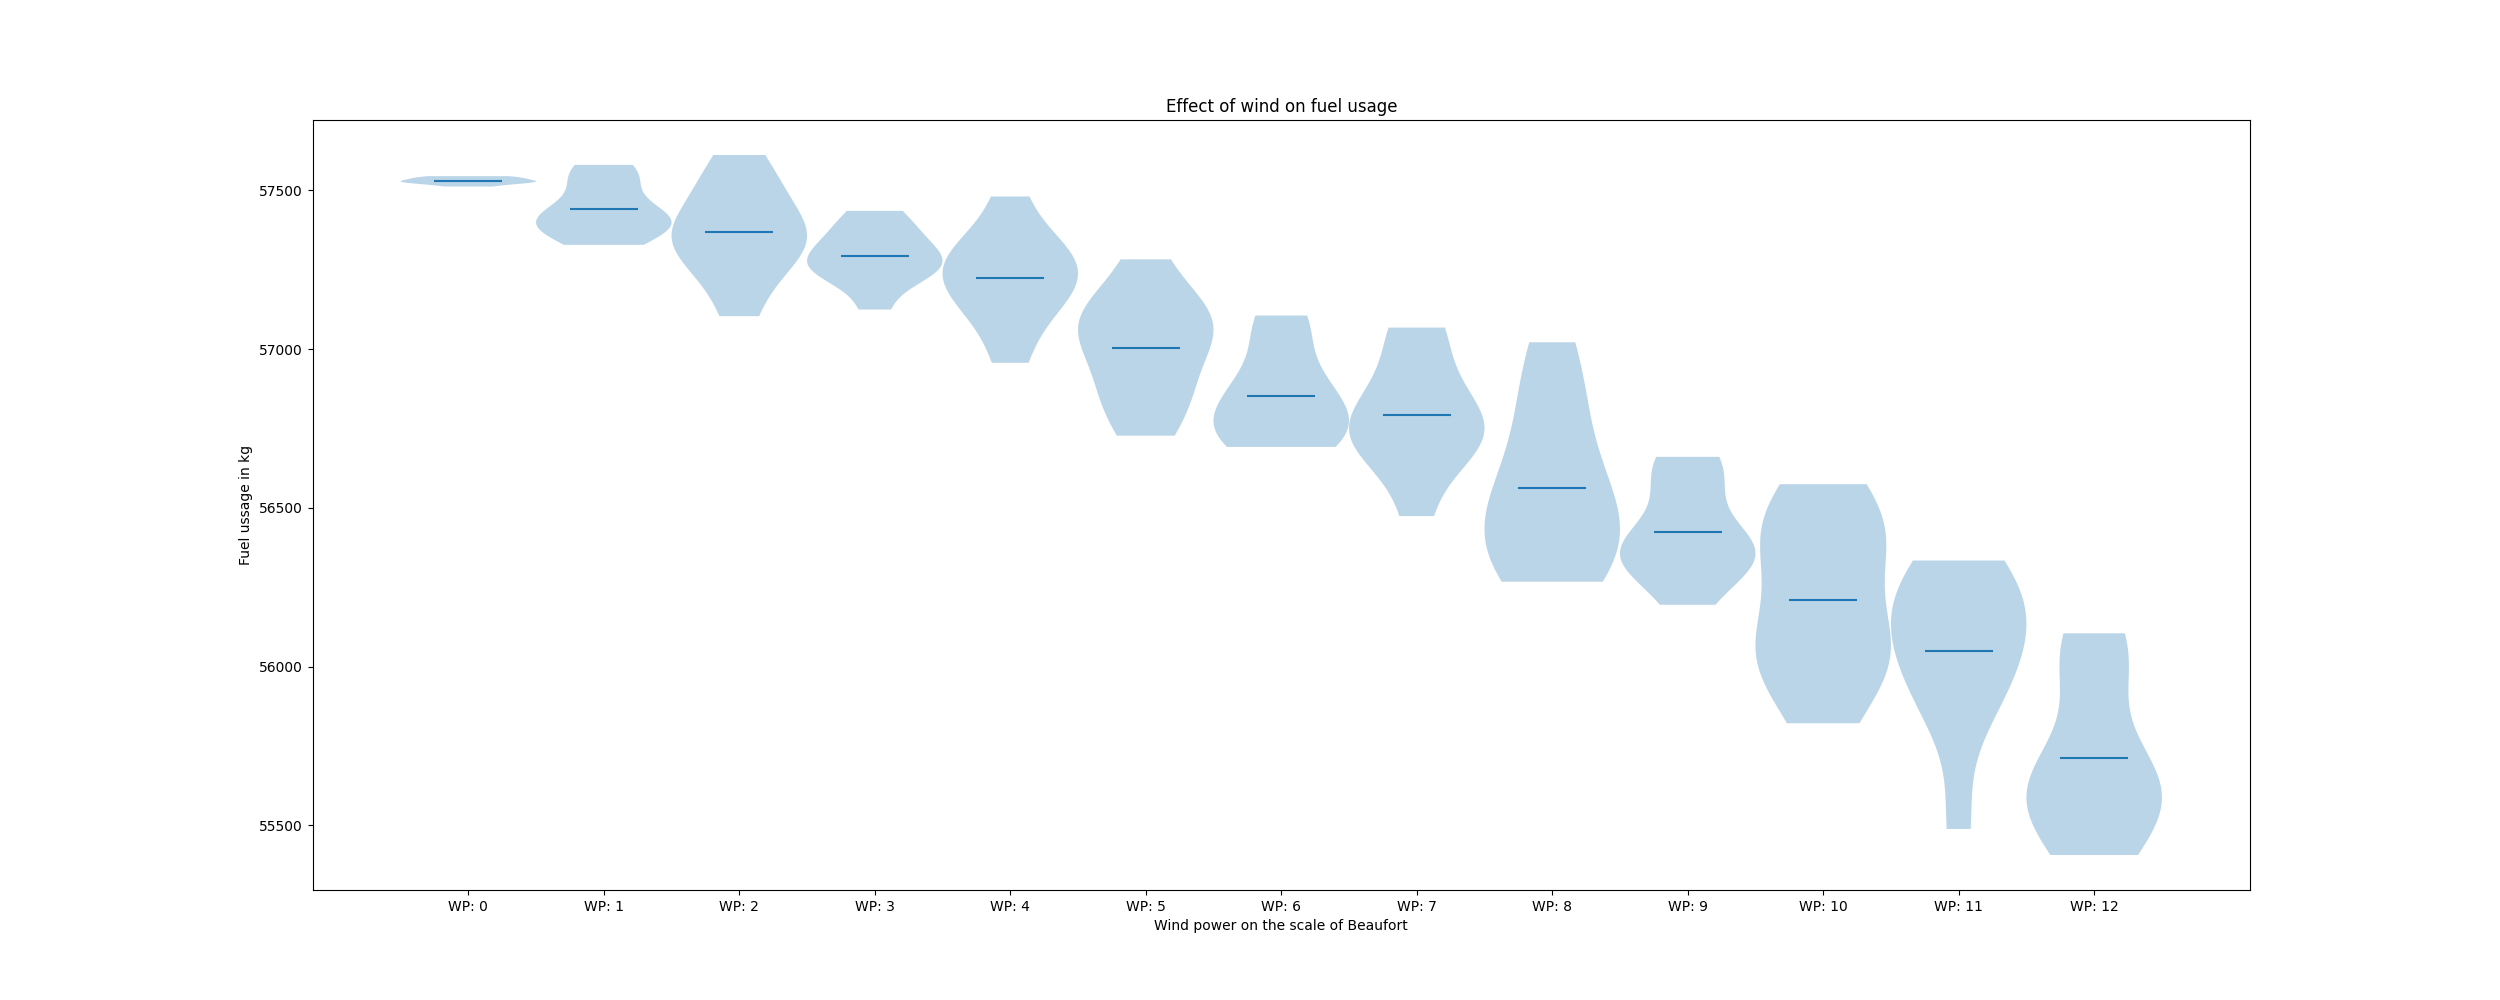
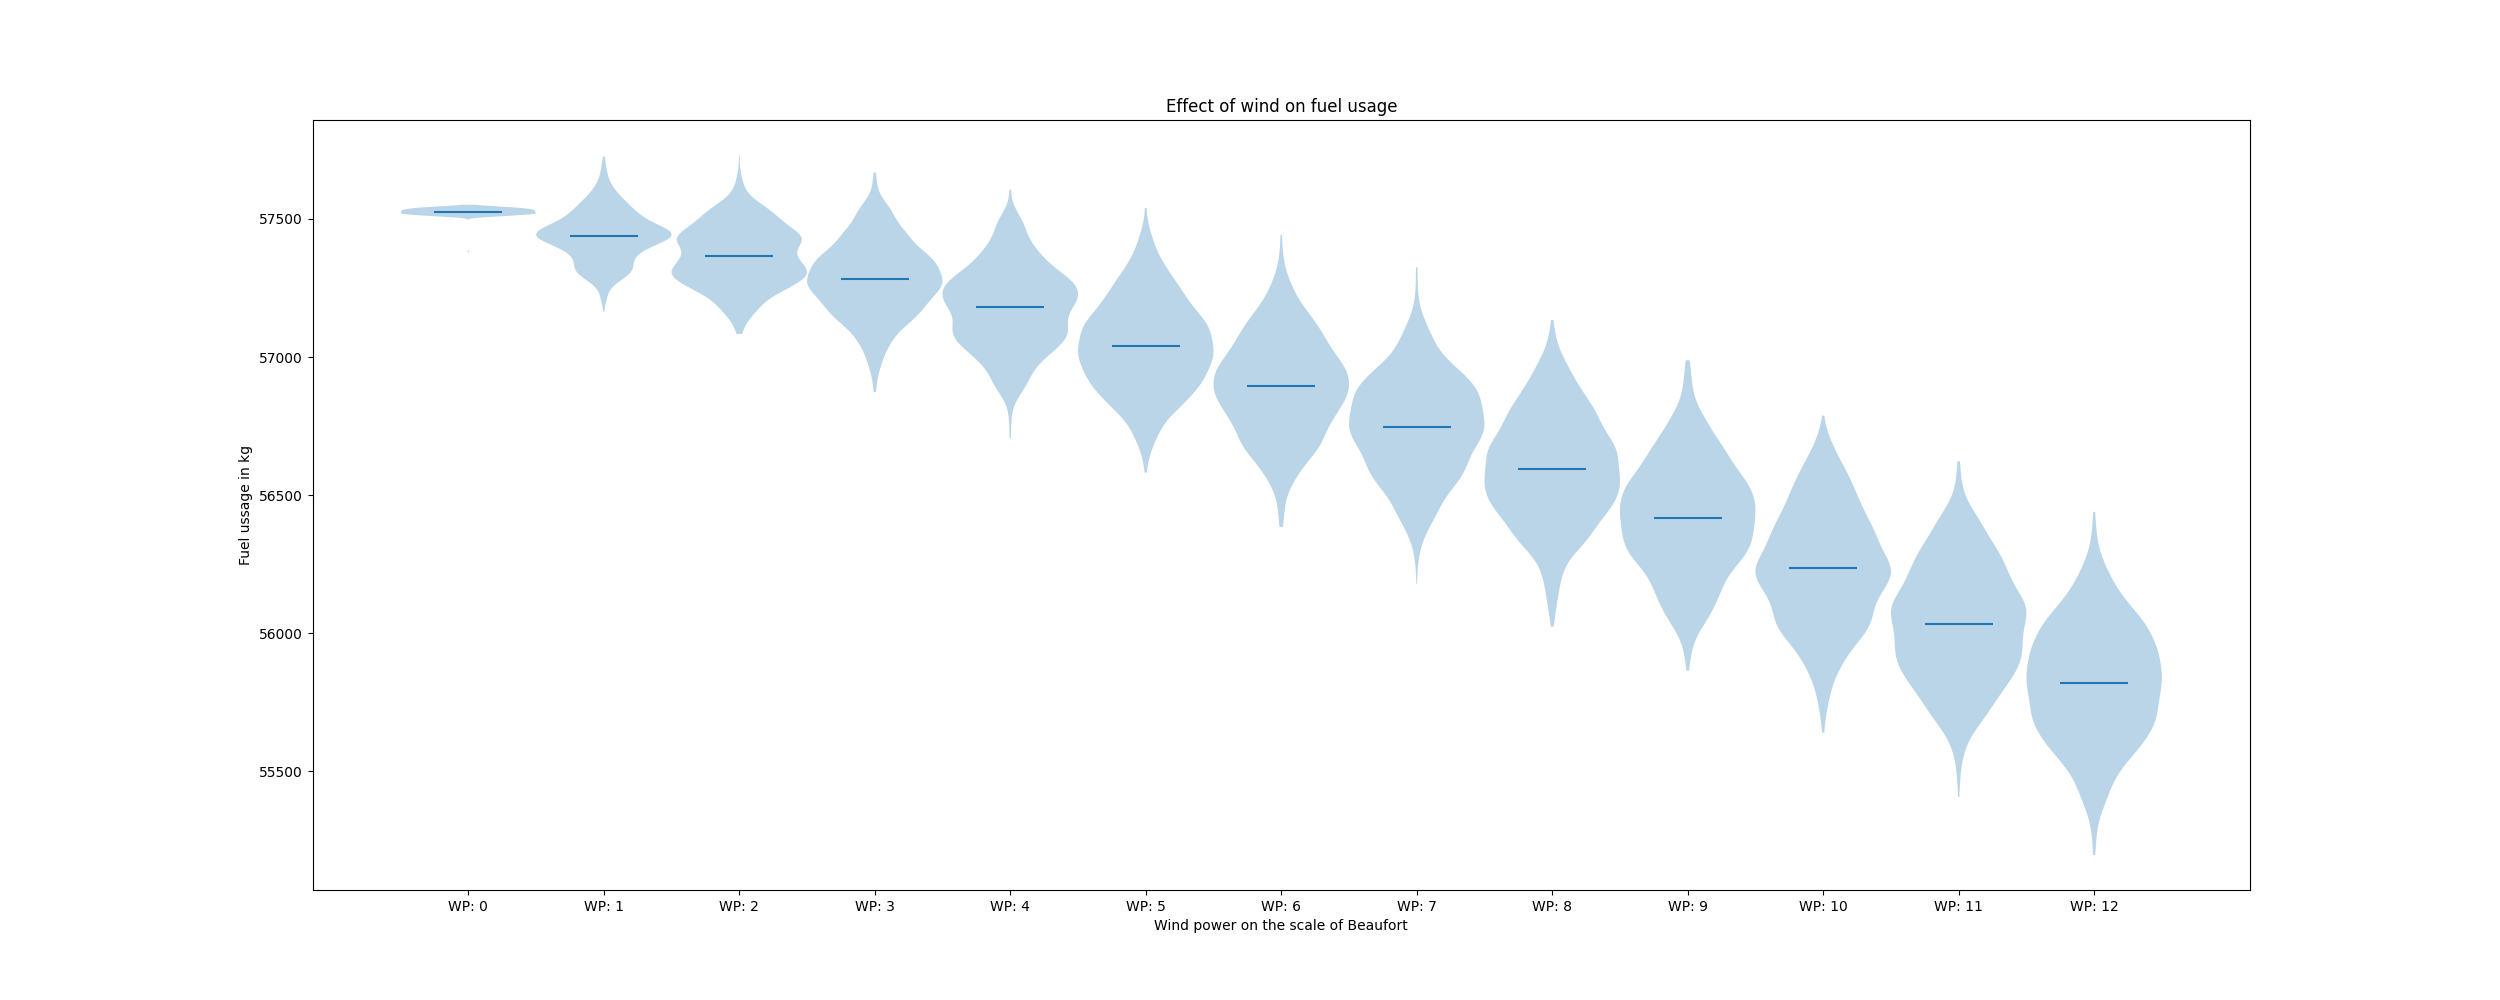
added comments

diff --git a/simulation.py b/simulation.py
@@ -17,7 +17,7 @@ def make_plots():
     ZERO_FUEL = 181400  # KG
     FUEL = 80000  # KG
     MAX_HEIGHT = 13100  # m
-    MOTOR_POWER = 7.7/(1000*1000)  # g/N*S
+    MOTOR_POWER = 7.7/(1000*1000)  # kg/N*S
     WING_SPAN = 360.5  # m2
     C = 0.012  # air drag coefficent of subsonic transport airplane.
     AIR_DENSITTY = 1.225  # kg/m^3
@@ -44,75 +44,75 @@ def make_plots():
 
 
     #fuel-time
-    fig, ax = plt.subplots(1)
-    # print(usedLst)
-    ax.plot(flight_sim.timeLst, flight_sim.fuelLst)
-    ax.set_xlabel("Time in seconds")
-    ax.set_ylabel("Fuel use in kg")
-    ax.set_title("Fuel use of time in a baseline flight")
-    fig.savefig("plots/fuel_use_time.png")
-    plt.close(fig)
-    # plt.violinplot([i for i in range(10)], usedLst)
-    # plt.xticks([i for i in range(10)], bars)
+    # fig, ax = plt.subplots(1)
+    # # print(usedLst)
+    # ax.plot(flight_sim.timeLst, flight_sim.fuelLst)
+    # ax.set_xlabel("Time in seconds")
+    # ax.set_ylabel("Fuel use in kg")
+    # ax.set_title("Fuel use of time in a baseline flight")
+    # fig.savefig("plots/fuel_use_time.png")
+    # plt.close(fig)
+    # # plt.violinplot([i for i in range(10)], usedLst)
+    # # plt.xticks([i for i in range(10)], bars)
 
 
-    #wind_speed
-    usedLst = []
-    for i in range(0,13):
-        used = []
-        print(i)
-        for j in range(10):
-            wind = Wind(i, dt)
-            flight_sim = Flight(boeing, wind, jet_stream, temperature, DISTANCE, AIR_DENSITTY)
-            flight_sim.run_sim(ASCEND_ANGLE_NOSE, DESCEND_ANGLE)
-            used.append(flight_sim.total_fuel_used)
-        usedLst.append(used)
+    # #wind_speed
+    # usedLst = []
+    # for i in range(0,13):
+    #     used = []
+    #     print(i)
+    #     for j in range(1000):
+    #         wind = Wind(i, dt)
+    #         flight_sim = Flight(boeing, wind, jet_stream, temperature, DISTANCE, AIR_DENSITTY)
+    #         flight_sim.run_sim(ASCEND_ANGLE_NOSE, DESCEND_ANGLE)
+    #         used.append(flight_sim.total_fuel_used)
+    #     usedLst.append(used)
     
-    fig, ax = plt.subplots(1, figsize = (25,10))
-    bars = [f"WP: {i}" for i in range(0,13)]
-    # print(usedLst)
-    vp_1 = ax.violinplot(usedLst, [i*2 for i in range(13)], widths=2, showmeans=True, showmedians=False, showextrema=False)
-    ax.set_xticks([i*2 for i in range(13)])
-    ax.set_xticklabels(bars)
-    ax.title.set_text("Effect of wind on fuel usage")
-    ax.set_xlabel("Wind power on the scale of Beaufort")
-    ax.set_ylabel("Fuel ussage in kg")
-    fig.savefig("plots/fuel_use_wind.png")
-    plt.close(fig)
+    # fig, ax = plt.subplots(1, figsize = (25,10))
+    # bars = [f"WP: {i}" for i in range(0,13)]
+    # # print(usedLst)
+    # vp_1 = ax.violinplot(usedLst, [i*2 for i in range(13)], widths=2, showmeans=True, showmedians=False, showextrema=False)
+    # ax.set_xticks([i*2 for i in range(13)])
+    # ax.set_xticklabels(bars)
+    # ax.title.set_text("Effect of wind on fuel usage")
+    # ax.set_xlabel("Wind power on the scale of Beaufort")
+    # ax.set_ylabel("Fuel ussage in kg")
+    # fig.savefig("plots/fuel_use_wind.png")
+    # plt.close(fig)
     
    
-    #temperature scale
-    wind = Wind(-1, dt)
-    usedLst = []
-    for i in range(10):
-        used = []
-        print(i)
-        for j in range(10):
-            temperature = Temperature(i, 0, AVG_TEMPERATURE, dt)
-            flight_sim = Flight(boeing, wind, jet_stream, temperature, DISTANCE, AIR_DENSITTY)
-            flight_sim.run_sim(ASCEND_ANGLE_NOSE, DESCEND_ANGLE)
-            used.append(flight_sim.total_fuel_used)
-        usedLst.append(used)
+    # #temperature scale
+    # wind = Wind(-1, dt)
+    # usedLst = []
+    # for i in range(10):
+    #     used = []
+    #     print(i)
+    #     for j in range(1000):
+    #         temperature = Temperature(i, 0, AVG_TEMPERATURE, dt)
+    #         flight_sim = Flight(boeing, wind, jet_stream, temperature, DISTANCE, AIR_DENSITTY)
+    #         flight_sim.run_sim(ASCEND_ANGLE_NOSE, DESCEND_ANGLE)
+    #         used.append(flight_sim.total_fuel_used)
+    #     usedLst.append(used)
     
-    fig, ax = plt.subplots(1, figsize = (25,10))
-    bars = [f"Scale: {i}" for i in range(10)]
-    # print(usedLst)
-    vp_1 = ax.violinplot(usedLst, [i*2 for i in range(10)], widths=2, showmeans=True, showmedians=False, showextrema=False)
-    ax.set_xticks([i*2 for i in range(10)])
-    ax.set_xticklabels(bars)
-    ax.title.set_text("Effect of temprature range/jet stream on fuel ussage")
-    ax.set_xlabel("Range of temperature")
-    ax.set_ylabel("Fuel ussage in kg")
-    fig.savefig("plots/fuel_use_temp_scale.png")
-    plt.close(fig)
+    # fig, ax = plt.subplots(1, figsize = (25,10))
+    # bars = [f"Scale: {i}" for i in range(10)]
+    # # print(usedLst)
+    # vp_1 = ax.violinplot(usedLst, [i*2 for i in range(10)], widths=2, showmeans=True, showmedians=False, showextrema=False)
+    # ax.set_xticks([i*2 for i in range(10)])
+    # ax.set_xticklabels(bars)
+    # ax.title.set_text("Effect of temprature range/jet stream on fuel ussage")
+    # ax.set_xlabel("Range of temperature")
+    # ax.set_ylabel("Fuel ussage in kg")
+    # fig.savefig("plots/fuel_use_temp_scale.png")
+    # plt.close(fig)
 
     #temperature change
     usedLst = []
     for i in range(10):
         used = []
         print(i)
-        for j in range(10):
-            temperature = Temperature(1, i, AVG_TEMPERATURE, dt)
+        for j in range(1000):
+            temperature = Temperature(1, i/100, AVG_TEMPERATURE, dt)
             flight_sim = Flight(boeing, wind, jet_stream, temperature, DISTANCE, AIR_DENSITTY)
             flight_sim.run_sim(ASCEND_ANGLE_NOSE, DESCEND_ANGLE)
             used.append(flight_sim.total_fuel_used)

diff --git a/Objects/wind.py b/Objects/wind.py
@@ -1,7 +1,28 @@
 import random
 
 class Wind():
-    def __init__(self, scale, dt) -> None:
+    """
+    Handles all the wind operations for the simulation:
+    Attributes:
+        Scale: int
+            Scale based on the beafort wind scale in m/s    
+        dt: float
+            Timesteps in seconds
+
+    Methods:
+        change_wind():
+            Changes the current wind speed
+    """
+    def __init__(self, scale, dt):
+        """
+        Constructs the wind object for the simulation
+
+        Parameters:
+        scale: float
+            Select which Beaufort parameter to use
+        dt: float
+            Timesteps
+        """
         self.dt = dt
         scale += 1
         self.Beaufort = [0, 0.2, 1.5, 3.3, 5.4, 7.9, 10.7, 13.8, 17.1, 20.7, 24.4, 28.4, 32.6, 36.8]
@@ -15,6 +36,12 @@ class Wind():
         self.speed = 0
     
     def change_wind(self):
+        """
+        Changes the wind speed by a random percantage of the max change
+        It also takes timesteps into account such that bigger time steps have
+        bigger changes in wind speed.
+        """
+
         if self.speed >= self.maxspeed:
             self.speed += random.randint(-10 * self.dt , 0) * self.max_acc / 10
         elif self.speed <= self.minspeed:

diff --git a/Objects/temperature.py b/Objects/temperature.py
@@ -2,6 +2,22 @@ import random
 import numpy as np
 
 class Temperature():
+    """
+    Object for all temperature related operations in the simulation
+    Attributes:
+        scale: int
+            The amount of variation from the average temperature
+        change: float
+            How much the temperature can change per time step
+        avg_temp: float
+            The average temperature for the simulation in kelvin
+        dt: float
+            Timestep in second
+
+    Methods:
+        changetemp():
+            Changes the current temperature.
+    """
     def __init__(self, scale, change, avg_temp, dt) -> None:
         self.temp = np.random.normal(avg_temp,scale, size=None)
         self.mintemp = avg_temp - 3 * scale
@@ -11,6 +27,9 @@ class Temperature():
 
 
     def change_temp(self):
+        """
+        Changes the value of the temperature for the current simulation based on the min and max temp possible
+        """
         if self.temp >= self.maxtemp:
             self.temp += random.randint(-10 * self.dt, 0) * self.change / 10
         elif self.temp <= self.mintemp:

diff --git a/Objects/plane.py b/Objects/plane.py
@@ -1,4 +1,24 @@
 class Plane():
+    """
+    Creates the plane object:
+    Attributes:
+        max_velocity: float 
+            Max speed of the plane in m/s
+        empty_weight: int 
+            Weight of the plane without fuel in kg   
+        fuel: int 
+            Amount of fuel the plane has when starting the flight in kg
+        max_height: int:
+            The maximum height the plane can fly at in m   
+        power: float
+            How much kg of of fuel the plane uses in kg/n*s
+        wing_span: float
+            Wing span of the plane in m^2
+        thrust: float
+            Amount of thrust of the plane in n/s
+        takeoff_speed: float
+            Amount of speed required to takeoff in m/s
+    """
     def __init__(self, max_velocity, empty_weight, fuel, max_height, power, wing_span, thrust, takeoff_speed) -> None:
         self.max_velocity = max_velocity
         self.empty_weight = empty_weight

diff --git a/Objects/jet_stream.py b/Objects/jet_stream.py
@@ -17,6 +17,16 @@ import math
 
 
 class Jet_stream():
+    """
+    Calculates the speed of the jet stream
+
+    Attributes:
+        latitude: float
+            latitude of where the plane is flying
+        height: float
+            altitude of the plane in m
+    
+    """
     def __init__(self, latitude, height) -> None:
         self.Omega = 1.456 * (10 ** (-4))
         self.g = 9.81
